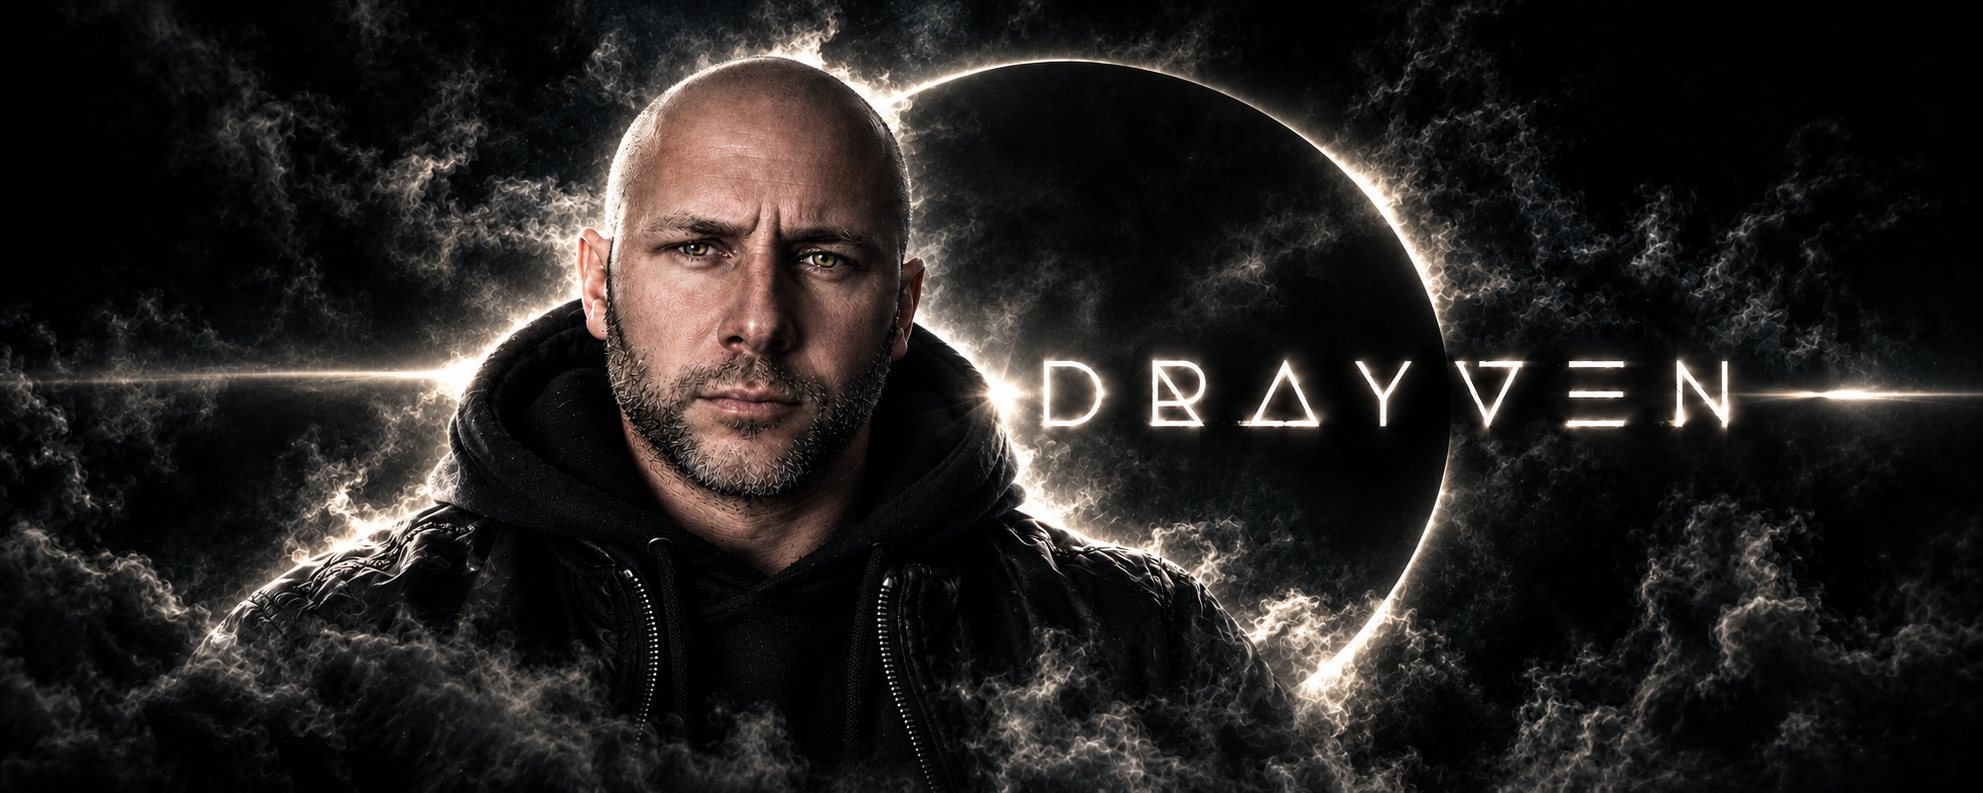
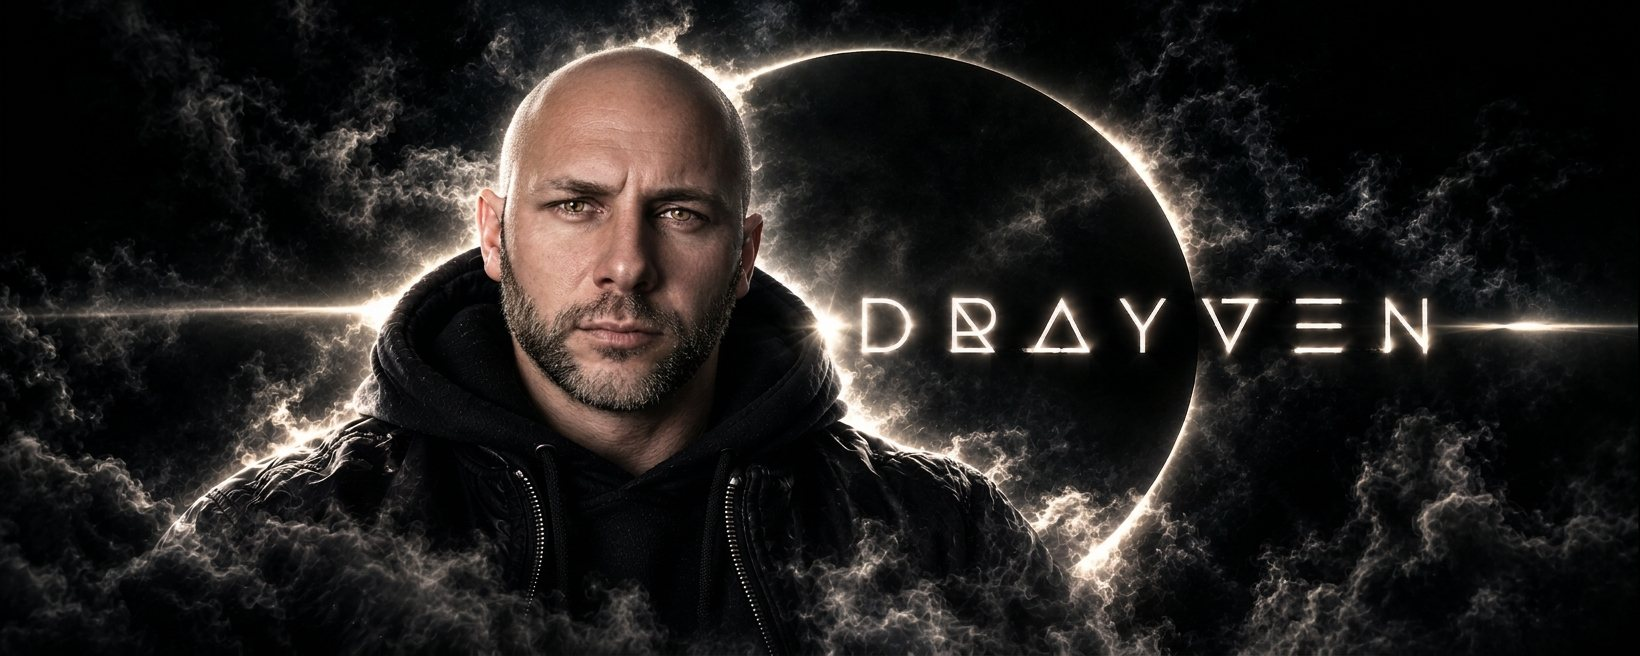
Add files via upload

diff --git a/index.html b/index.html
@@ -481,7 +481,7 @@
 
   <!-- BANNER -->
   <div class="banner">
-    <img src="./hero.jpg" alt="DRAYVEN, Künstlerfoto mit Schriftzug" width="2000" height="800" fetchpriority="high">
+    <img src="./hero.jpg" alt="DRAYVEN, Künstlerfoto mit Schriftzug" width="1640" height="656" fetchpriority="high">
   </div>
 
   <!-- PLATFORM BUTTONS -->
